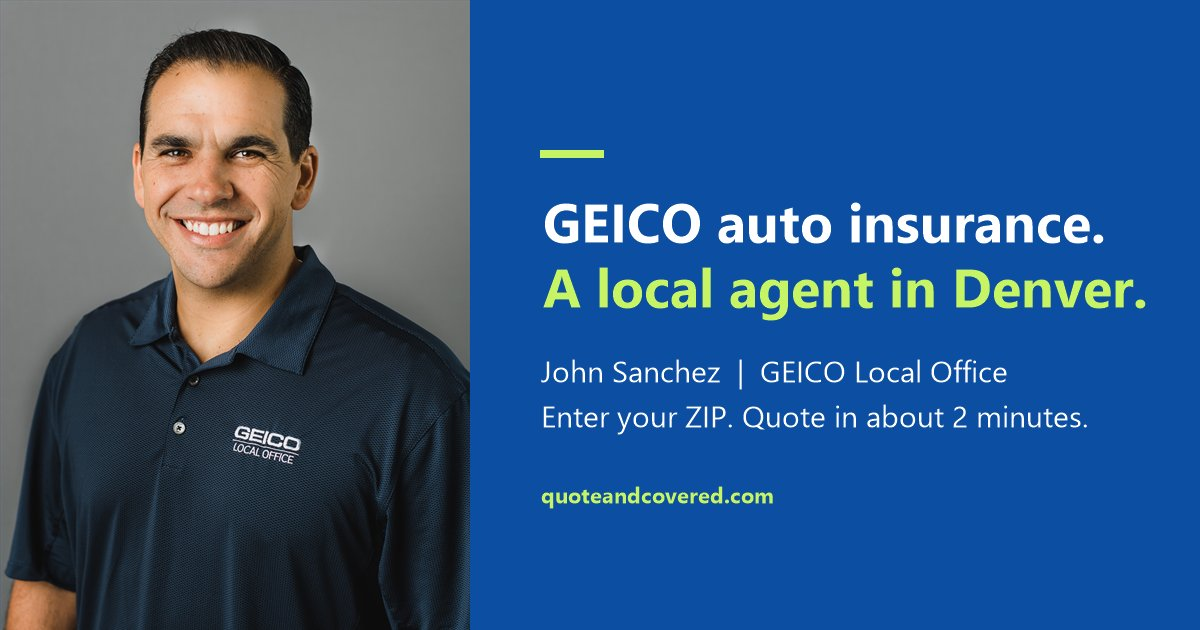
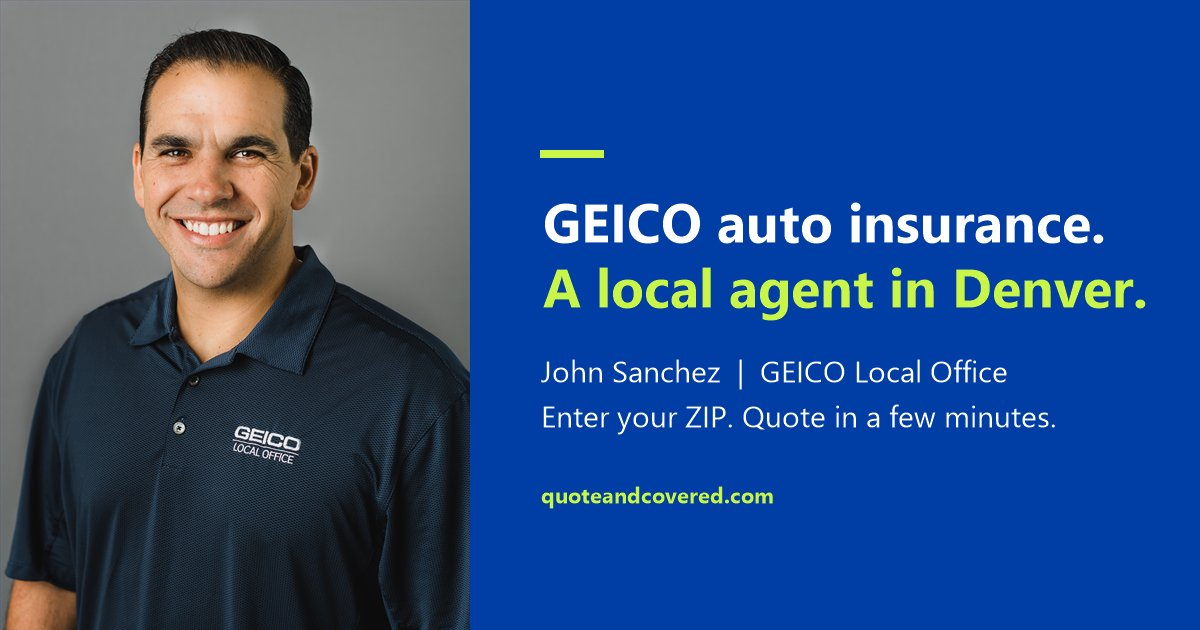
Replace "about 2 minutes" with "a few minutes" everywhere, including the social preview image

diff --git a/index.html b/index.html
@@ -4,12 +4,12 @@
   <meta charset="utf-8">
   <meta name="viewport" content="width=device-width, initial-scale=1">
   <title>GEICO Auto Insurance Quote | John Sanchez, Local Denver Agent</title>
-  <meta name="description" content="Start your GEICO auto insurance quote with John Sanchez, your local GEICO agent in Denver. Enter your ZIP code, get a real GEICO quote in about 2 minutes. Hablamos Español.">
+  <meta name="description" content="Start your GEICO auto insurance quote with John Sanchez, your local GEICO agent in Denver. Enter your ZIP code, get a real GEICO quote in a few minutes. Hablamos Español.">
   <meta name="robots" content="index,follow">
   <link rel="canonical" href="https://quoteandcovered.com/">
   <meta name="theme-color" content="#003DA5">
   <meta property="og:title" content="GEICO Auto Insurance Quote | John Sanchez, Local Denver Agent">
-  <meta property="og:description" content="Enter your ZIP code and start a real GEICO quote in about 2 minutes. Local Denver office, Hablamos Español.">
+  <meta property="og:description" content="Enter your ZIP code and start a real GEICO quote in a few minutes. Local Denver office, Hablamos Español.">
   <meta property="og:url" content="https://quoteandcovered.com/">
   <meta property="og:type" content="website">
   <meta property="og:image" content="https://quoteandcovered.com/images/og.jpg">
@@ -211,7 +211,7 @@
       <div class="hero-copy">
         <p class="eyebrow">Exclusive GEICO Agency · Denver, Colorado</p>
         <h1>GEICO auto insurance.<br>A local agent.<br><span class="lime">Quote and covered in minutes.</span></h1>
-        <p class="lead">Enter your ZIP code to get a real GEICO quote. About 2 minutes, no obligation, and a Denver office you can call if you want a real person.</p>
+        <p class="lead">Enter your ZIP code to get a real GEICO quote. A few minutes, no obligation, and a Denver office you can call if you want a real person.</p>
         <div class="strip"><span>Based in Denver, Colorado</span><span>Online. By phone. In person.</span></div>
       </div>
 
@@ -223,7 +223,7 @@
           <button type="submit">Get My Quote →</button>
         </form>
         <p class="zip-error">Please enter a 5-digit ZIP code.</p>
-        <div class="trust"><span>Real GEICO rates</span><span>About 2 minutes</span><span>No obligation</span></div>
+        <div class="trust"><span>Real GEICO rates</span><span>A few minutes</span><span>No obligation</span></div>
         <div class="or">or</div>
         <a class="call-big" href="tel:+13038243430" data-call>📞 Call 303-824-3430 for a quote<small>Talk to a licensed agent. Hablamos Español.</small></a>
       </div>
@@ -239,7 +239,7 @@
       <h2>What can we help you insure?</h2>
       <p class="sub">From the daily drive to the place you call home, explore coverage with our local team. Bundling more than one policy is one of the simplest ways to bring your total down.</p>
       <div class="prod-grid">
-        <a class="prod-feature" href="#top"><span class="ic"><svg viewBox="45.61 40.8 134.28 98.4" aria-hidden="true" focusable="false"><path fill="currentColor" d="M168.601 84.7c0-3.5-2.9-6.3-6.3-6.3h-6.6c-.5-4.3-4.1-29.4-22.8-29.4h-40.8c-18.5 0-22 25.1-22.5 29.4h-6.5c-3.5 0-6.3 2.8-6.3 6.3v7h8.1c-.6 1.6-1 3.4-1 5.7V126c0 2.7 2.1 5 5.1 5h12.1c2.7 0 5.1-2.3 5.1-5v-4.5h53.2v4.5c0 2.7 2.4 5 5.1 5h12.1c2.7 0 5.4-2.3 5.4-5V97.4c0-2.3-.4-4.1-1.3-5.7h8v-7zm-90.3 24.1c-3 0-6.4-2.7-6.4-6.3s3.4-6.7 6.4-6.7 6.7 3 6.7 6.7-3 6.3-6.7 6.3m-.7-27.7c2-9 3.4-24.4 14.5-24.4h40.8c11.5 0 12.8 15.4 15.2 24.4-20.2 5.3-50.5 5.3-70.4 0zm69 27.7c-3.4 0-6.4-2.7-6.4-6.3s3-6.7 6.4-6.7 6.7 3 6.7 6.7-2.7 6.3-6.7 6.3"/></svg></span><span class="t"><b>Auto</b><small>Coverage for the road ahead, with GEICO's discounts applied. Enter your ZIP code above and see your rate in about 2 minutes.</small><em>Get a quote &rarr;</em></span></a>
+        <a class="prod-feature" href="#top"><span class="ic"><svg viewBox="45.61 40.8 134.28 98.4" aria-hidden="true" focusable="false"><path fill="currentColor" d="M168.601 84.7c0-3.5-2.9-6.3-6.3-6.3h-6.6c-.5-4.3-4.1-29.4-22.8-29.4h-40.8c-18.5 0-22 25.1-22.5 29.4h-6.5c-3.5 0-6.3 2.8-6.3 6.3v7h8.1c-.6 1.6-1 3.4-1 5.7V126c0 2.7 2.1 5 5.1 5h12.1c2.7 0 5.1-2.3 5.1-5v-4.5h53.2v4.5c0 2.7 2.4 5 5.1 5h12.1c2.7 0 5.4-2.3 5.4-5V97.4c0-2.3-.4-4.1-1.3-5.7h8v-7zm-90.3 24.1c-3 0-6.4-2.7-6.4-6.3s3.4-6.7 6.4-6.7 6.7 3 6.7 6.7-3 6.3-6.7 6.3m-.7-27.7c2-9 3.4-24.4 14.5-24.4h40.8c11.5 0 12.8 15.4 15.2 24.4-20.2 5.3-50.5 5.3-70.4 0zm69 27.7c-3.4 0-6.4-2.7-6.4-6.3s3-6.7 6.4-6.7 6.7 3 6.7 6.7-2.7 6.3-6.7 6.3"/></svg></span><span class="t"><b>Auto</b><small>Coverage for the road ahead, with GEICO's discounts applied. Enter your ZIP code above and see your rate in a few minutes.</small><em>Get a quote &rarr;</em></span></a>
         <div class="prod-list">
         <a class="prod" href="tel:+13038243430" data-call><span class="ic"><svg viewBox="45.2 41.22 134.4 96.96" aria-hidden="true" focusable="false"><path fill="currentColor" d="M56.4984 88.3V130.1H72.8984V107.1C72.8984 101.6 74.8984 96 81.9984 96H91.8984C97.5984 96 99.6984 101.9 99.6984 106.4V130.1H168.398V92.1C168.398 85.4 162.898 79.9 156.198 79.9H135.498L105.998 52.1C102.598 49.3 97.3984 49.3 93.9984 52.1L58.0984 84.5C56.9984 85.5 56.3984 86.8 56.3984 88.3H56.4984ZM118.498 101.9C118.498 98.7 121.098 96 124.398 96H144.098C147.298 96 149.998 98.6 149.998 101.9V112.9C149.998 116.1 147.398 118.8 144.098 118.8H124.398C121.198 118.8 118.498 116.2 118.498 112.9V101.9Z"/><path fill="currentColor" d="M66.5 50H80.9V56.5L66.5 68.1V50Z"/></svg></span><span class="t"><b>Home</b><small>Help protect your home and what's in it.</small></span><span class="go" aria-hidden="true">&rarr;</span></a>
         <a class="prod" href="tel:+13038243430" data-call><span class="ic"><svg viewBox="44.98 40.02 132 96.36" aria-hidden="true" focusable="false"><path fill="currentColor" d="M164.877 64.1489L142.877 49.049C141.477 48.049 139.677 48.049 138.277 49.049L116.277 64.1489C115.477 64.6489 114.977 65.6489 114.977 66.6489V86.849H107.177V66.6489C107.177 65.6489 106.677 64.6489 105.877 64.1489L83.8766 49.049C82.4766 48.049 80.6766 48.049 79.2766 49.049L57.2766 64.1489C56.4766 64.6489 55.9766 65.6489 55.9766 66.6489V128.349H106.877V115.549C106.877 115.549 106.877 115.149 106.877 114.949C106.877 114.749 106.877 114.649 107.077 114.449C107.477 113.549 108.377 112.949 109.377 112.949H112.177C113.577 112.949 114.677 114.149 114.677 115.549V128.349H165.977V66.6489C165.977 65.6489 165.477 64.6489 164.677 64.1489M78.6766 116.149C78.6766 117.649 77.4766 118.949 76.0766 118.949H65.9766C64.4766 118.949 63.3766 117.649 63.3766 116.149V108.549C63.3766 107.049 64.5766 105.749 65.9766 105.749H76.0766C77.5766 105.749 78.6766 107.049 78.6766 108.549V116.149ZM78.6766 97.249C78.6766 98.749 77.4766 100.049 76.0766 100.049H65.9766C64.4766 100.049 63.3766 98.749 63.3766 97.249V89.6489C63.3766 88.1489 64.5766 86.849 65.9766 86.849H76.0766C77.5766 86.849 78.6766 88.1489 78.6766 89.6489V97.249ZM78.6766 78.1489C78.6766 79.6489 77.4766 80.949 76.0766 80.949H65.9766C64.4766 80.949 63.3766 79.6489 63.3766 78.1489V70.549C63.3766 69.049 64.5766 67.749 65.9766 67.749H76.0766C77.5766 67.749 78.6766 69.049 78.6766 70.549V78.1489ZM100.577 116.149C100.577 117.649 99.3766 118.949 97.9766 118.949H87.8766C86.3766 118.949 85.2766 117.649 85.2766 116.149V108.549C85.2766 107.049 86.4766 105.749 87.8766 105.749H97.9766C99.4766 105.749 100.577 107.049 100.577 108.549V116.149ZM100.577 97.1489C100.577 98.6489 99.3766 99.949 97.9766 99.949H87.8766C86.3766 99.949 85.2766 98.6489 85.2766 97.1489V89.549C85.2766 88.049 86.4766 86.749 87.8766 86.749H97.9766C99.4766 86.749 100.577 88.049 100.577 89.549V97.1489ZM100.577 78.1489C100.577 79.6489 99.3766 80.949 97.9766 80.949H87.8766C86.3766 80.949 85.2766 79.6489 85.2766 78.1489V70.549C85.2766 69.049 86.4766 67.749 87.8766 67.749H97.9766C99.4766 67.749 100.577 69.049 100.577 70.549V78.1489ZM137.677 116.049C137.677 117.549 136.477 118.849 135.077 118.849H124.977C123.477 118.849 122.377 117.549 122.377 116.049V108.449C122.377 106.949 123.577 105.649 124.977 105.649H135.077C136.577 105.649 137.677 106.949 137.677 108.449V116.049ZM137.677 97.1489C137.677 98.6489 136.477 99.949 135.077 99.949H124.977C123.477 99.949 122.377 98.6489 122.377 97.1489V89.549C122.377 88.049 123.577 86.749 124.977 86.749H135.077C136.577 86.749 137.677 88.049 137.677 89.549V97.1489ZM137.677 78.1489C137.677 79.6489 136.477 80.949 135.077 80.949H124.977C123.477 80.949 122.377 79.6489 122.377 78.1489V70.549C122.377 69.049 123.577 67.749 124.977 67.749H135.077C136.577 67.749 137.677 69.049 137.677 70.549V78.1489ZM159.577 116.049C159.577 117.549 158.377 118.849 156.977 118.849H146.877C145.377 118.849 144.277 117.549 144.277 116.049V108.449C144.277 106.949 145.477 105.649 146.877 105.649H156.977C158.477 105.649 159.577 106.949 159.577 108.449V116.049ZM159.577 97.049C159.577 98.549 158.377 99.849 156.977 99.849H146.877C145.377 99.849 144.277 98.549 144.277 97.049V89.449C144.277 87.949 145.477 86.6489 146.877 86.6489H156.977C158.477 86.6489 159.577 87.949 159.577 89.449V97.049ZM159.577 78.049C159.577 79.549 158.377 80.849 156.977 80.849H146.877C145.377 80.849 144.277 79.549 144.277 78.049V70.449C144.277 68.949 145.477 67.6489 146.877 67.6489H156.977C158.477 67.6489 159.577 68.949 159.577 70.449V78.049Z"/></svg></span><span class="t"><b>Condo</b><small>Coverage for your unit and belongings.</small></span><span class="go" aria-hidden="true">&rarr;</span></a>
@@ -264,7 +264,7 @@
       <h2>Three steps to your GEICO quote.</h2>
       <div class="steps">
         <div class="step"><b>1</b><h3>Enter your ZIP code</h3><p>That's all we need to get started. It tells GEICO which rates and coverages apply where you live.</p></div>
-        <div class="step"><b>2</b><h3>Get your GEICO quote</h3><p>You go straight to GEICO's secure quote page with our office attached. It takes about 2 minutes.</p></div>
+        <div class="step"><b>2</b><h3>Get your GEICO quote</h3><p>You go straight to GEICO's secure quote page with our office attached. It takes a few minutes.</p></div>
         <div class="step"><b>3</b><h3>Start your policy, or call us</h3><p>Like what you see? Start online, or call and we'll finish it together.</p></div>
       </div>
     </div>
@@ -324,14 +324,14 @@
     <div class="wrap">
       <p class="eyebrow">Ready when you are</p>
       <h2>Let's get your quote started.</h2>
-      <p class="sub">Enter your ZIP code and see your GEICO rate in about 2 minutes.</p>
+      <p class="sub">Enter your ZIP code and see your GEICO rate in a few minutes.</p>
       <div class="quote-card">
         <form class="zip-form" id="zip-form-2" action="https://sales.geico.com/" method="get" autocomplete="postal-code" novalidate>
           <input type="text" name="POL_ratedZip5" inputmode="numeric" pattern="[0-9]{5}" maxlength="5" placeholder="Enter ZIP code" aria-label="ZIP code" required>
           <button type="submit">Get My Quote →</button>
         </form>
         <p class="zip-error">Please enter a 5-digit ZIP code.</p>
-        <div class="trust"><span>Real GEICO rates</span><span>About 2 minutes</span><span>No obligation</span></div>
+        <div class="trust"><span>Real GEICO rates</span><span>A few minutes</span><span>No obligation</span></div>
       </div>
     </div>
   </section>
